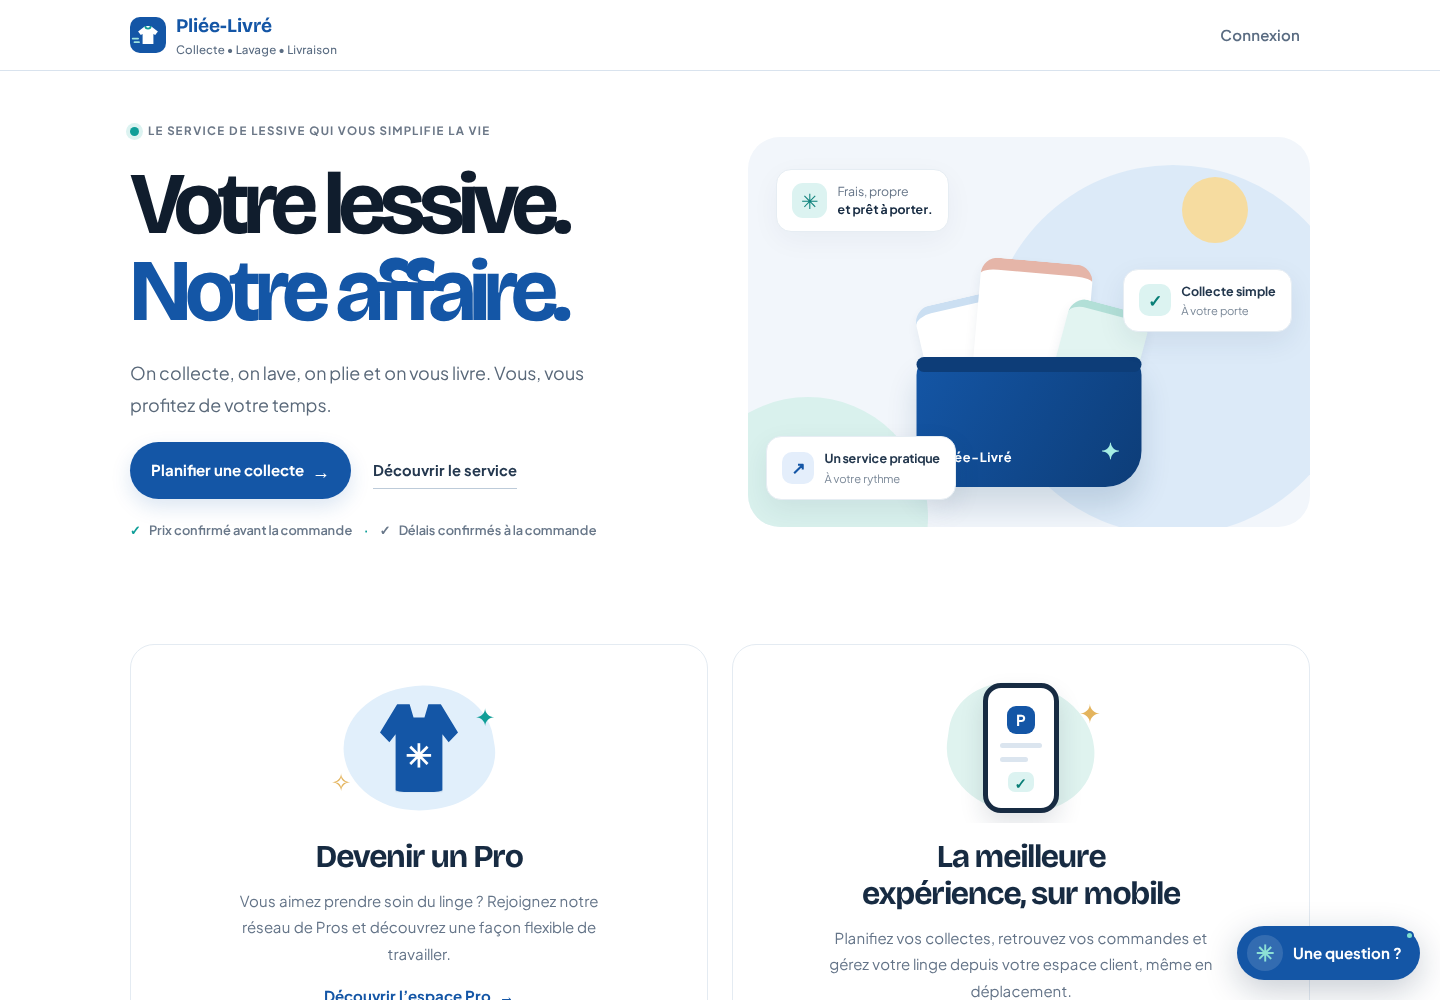
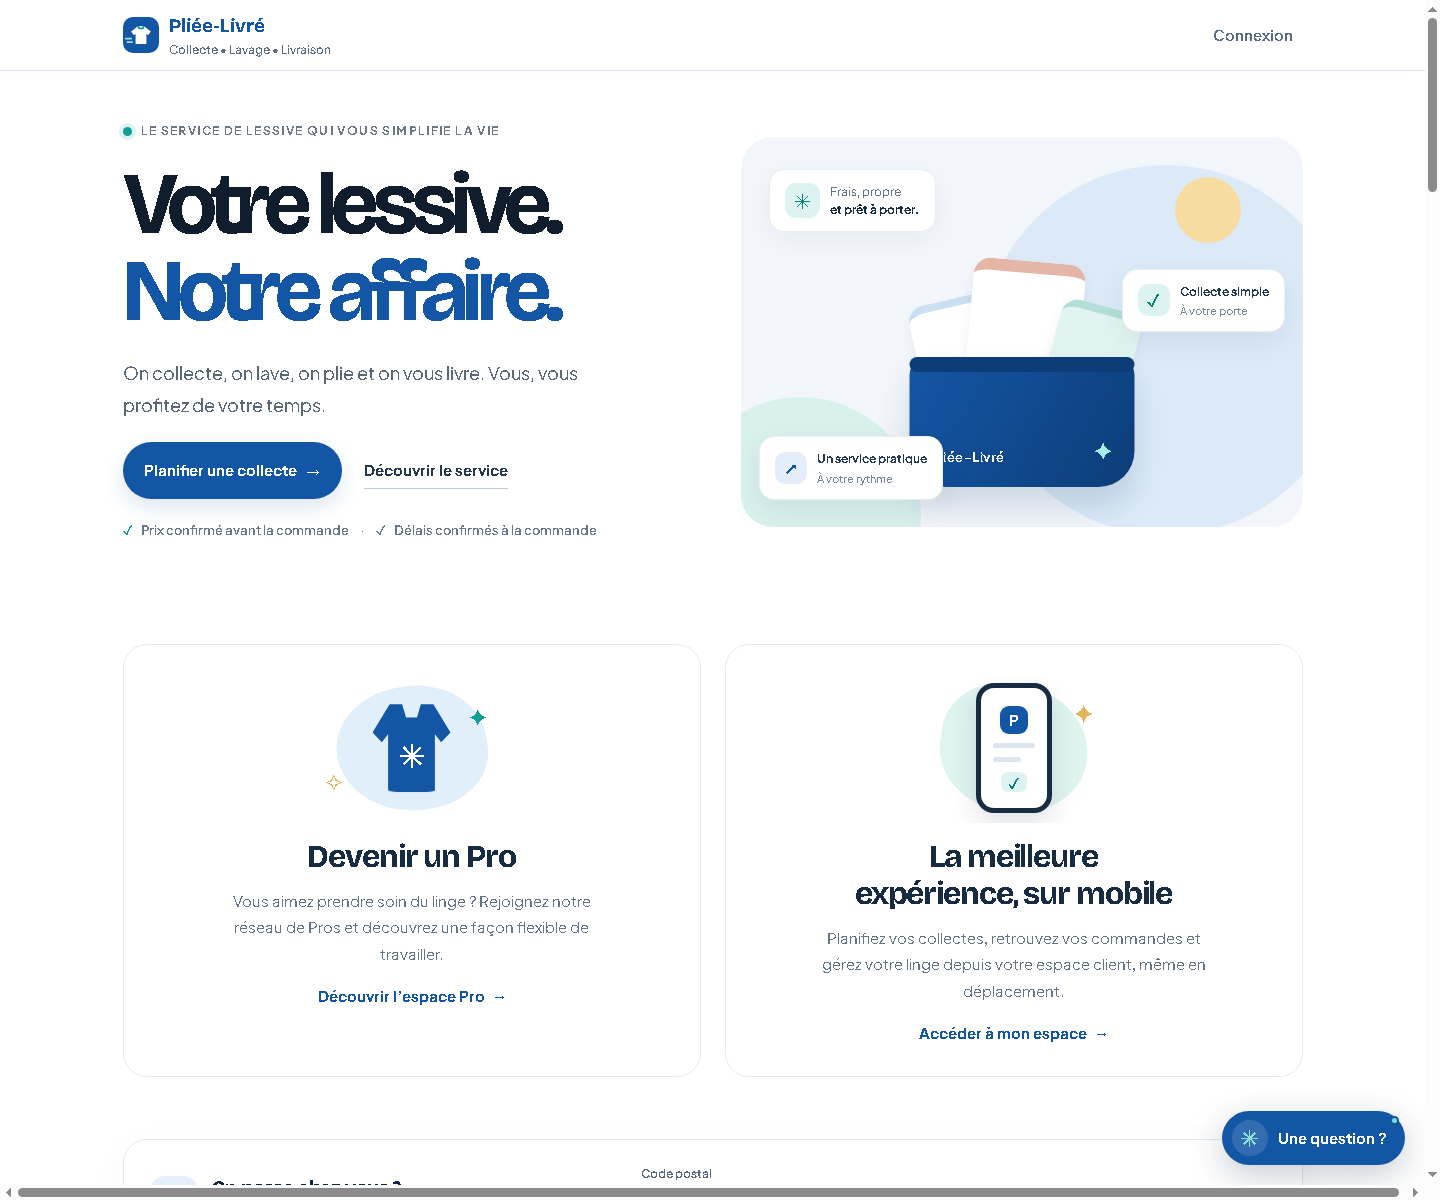
docs: refresh web gallery with localhost screenshot

diff --git a/docs/13-galerie-web.md b/docs/13-galerie-web.md
@@ -1,10 +1,12 @@
 # Galerie visuelle — application Web PLIEE-LIVRE
 
-> Captures de l’application Web locale, servie sur le port 3000, à une fenêtre de bureau de 1440 × 1000. Cette galerie est distincte du [prototype mobile](11-galerie-prototype.md), servi séparément sur le port 3001.
+> Capture réelle de l’application Web locale (`http://localhost:3000`), réalisée le 27 octobre 2026 avec Microsoft Edge. La galerie Web reste distincte du [prototype mobile](11-galerie-prototype.md), servi séparément sur le port 3001.
 
 ## 1. Accueil — proposition de service
 
 ![Page d’accueil Web PLIEE-LIVRE](assets/web-screenshots/01-accueil.png)
+
+> Capture réelle copiée dans le presse-papiers puis intégrée ici. Le défilement horizontal visible est consigné comme anomalie d’affichage, sans modification du design dans cette documentation.
 
 La page d’accueil présente le service de collecte, lavage et livraison, l’action pour planifier une collecte, ainsi que les entrées vers les espaces Pro et mobile. La capture montre le rendu de la page au moment de l’inspection.
 

diff --git a/docs/assets/web-screenshots/README.md b/docs/assets/web-screenshots/README.md
@@ -1,6 +1,8 @@
 # Captures Web PLIEE-LIVRE
 
-- `01-accueil.png` — page d’accueil Web.
+- `01-accueil.png` — capture actualisée de la page d’accueil servie sur `http://localhost:3000`, prise le 27 octobre 2026 et copiée dans le presse-papiers. La barre de défilement horizontale reste visible dans la capture.
 - `06-a-propos.png` — page À propos et présentation du concept.
 
 Seules les captures validées visuellement sont conservées. Les captures blanches obtenues pendant les essais du navigateur headless ont été supprimées et ne sont pas utilisées dans la documentation.
+
+La capture est utilisée dans le [README principal](../../../README.md) et la [galerie Web](../../13-galerie-web.md). Elle documente le rendu observé, sans prétendre valider les parcours métier.

diff --git a/README.md b/README.md
@@ -23,6 +23,8 @@ La galerie dédiée à l’application Web (port 3000) est distincte de la galer
 
 ![Page d’accueil Web PLIEE-LIVRE](docs/assets/web-screenshots/01-accueil.png)
 
+> Capture réelle de `http://localhost:3000`, actualisée le 27 octobre 2026. Voir la [galerie Web complète](docs/13-galerie-web.md); la barre horizontale visible reste à corriger.
+
 ## Aperçu visuel du projet
 
 La [galerie visuelle](docs/11-galerie-prototype.md) regroupe les parcours du prototype mobile (connexion, Client, Pro, Gestion et assistant). Les captures de l’application sont des écrans de démonstration; elles ne prouvent pas une intégration métier en production.
